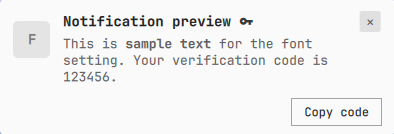
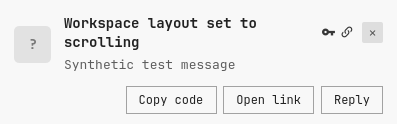
Wrap notification titles and measure action row overflow

diff --git a/Toast.qml b/Toast.qml
@@ -128,14 +128,51 @@ Item {
     return out
   }
 
-  // Three buttons is what fits across a card without the labels shrinking.
-  // Past that the last slot becomes "More", which opens the lot as a list
-  // rather than a floating menu: this surface is clipped, and a popup that can
-  // be cut off is worse than one more row.
-  readonly property int fits: 3
+  // Measure the actual themed buttons: a fixed count overflows with larger
+  // fonts or longer action labels. Reserve More before admitting each action.
+  readonly property var actionWidths: {
+    var widths = []
+    for (var i = 0; i < deedMeasures.count; i++) {
+      var button = deedMeasures.itemAt(i)
+      if (button) widths.push(button.implicitWidth)
+    }
+    return widths
+  }
+  readonly property int fits: {
+    var widths = actionWidths, gap = deedRow.spacing, available = deedArea.width
+    if (widths.length !== allDeeds.length) return 0
+    var total = 0
+    for (var i = 0; i < widths.length; i++) total += widths[i] + (i ? gap : 0)
+    if (total <= available) return widths.length
+    var used = moreMeasure.implicitWidth, count = 0
+    for (var j = 0; j < widths.length; j++) {
+      if (used + gap + widths[j] > available) break
+      used += gap + widths[j]
+      count++
+    }
+    return count
+  }
   readonly property bool overflows: allDeeds.length > fits
-  readonly property var deeds: allDeeds.slice(0, overflows ? fits - 1 : fits)
-  readonly property var spare: overflows ? allDeeds.slice(fits - 1) : []
+  readonly property var deeds: allDeeds.slice(0, fits)
+  readonly property var spare: allDeeds.slice(fits)
+
+  Item {
+    visible: false
+    Repeater {
+      id: deedMeasures
+      model: card.allDeeds
+      DeedButton {
+        required property var modelData
+        deed: modelData
+        toast: card
+      }
+    }
+    DeedButton {
+      id: moreMeasure
+      deed: ({ kind: "more", label: "More", value: "" })
+      toast: card
+    }
+  }
   property bool deedsOpen: false
   property bool menuOpen: false
   property string actionsAlign: "right"      // right | left
@@ -484,16 +521,19 @@ Item {
           Text {
             id: title
             anchors.left: parent.left
-            width: parent.width - rightSide.width
+            width: Math.max(1, parent.width - rightSide.width
                    - (badge.visible ? badge.width + Style.space(6) : 0)
                    - (titleMarks.visible ? titleMarks.width + Style.space(7) : 0)
-                   - Style.space(8)
+                   - Style.space(8))
             text: String(card.row.summary || "")
             color: Color.notifications.text
             font.family: Style.font.family
             font.pixelSize: Style.font.body * card.fontScale
             font.weight: Font.DemiBold
-            maximumLineCount: 1
+            // Larger fonts should wrap the summary, not hide it after a few words.
+            // Bound unusually long titles just as we bound the message body.
+            wrapMode: Text.Wrap
+            maximumLineCount: card.bodyOpen ? 8 : 3
             elide: Text.ElideRight
           }
 
@@ -739,7 +779,7 @@ Item {
                                        : card.menuOpen ? "menu"
                                        : card.deedsOpen ? "list"
                                        : (card.hovered && card.expanded
-                                          && card.deeds.length > 0) ? "row" : ""
+                                          && card.allDeeds.length > 0) ? "row" : ""
 
           readonly property real contentHeight: mode === "reply" ? replyBox.height
                                               : mode === "menu" ? menuColumn.implicitHeight

diff --git a/tests/FontLayout.qml b/tests/FontLayout.qml
@@ -1,0 +1,70 @@
+import QtQuick
+import Quickshell
+import "Plugin" as Plugin
+
+Window {
+  id: test
+  visible: true
+  width: 500
+  height: 900
+  color: "#eeeeee"
+  Plugin.Toast {
+    id: toast
+    x: 20; y: 20
+    cardWidth: 340
+    row: ({summary: "Workspace layout set to scrolling", body: "Synthetic test message", codes: "123456", code: "123456", link: "https://example.com", replyPath: "fake:0"})
+    place: ({front: true, count: 1, z: 1})
+    expanded: true
+    hovered: true
+    paused: true
+  }
+  property int step: 0
+  property var sizes: [0.75, 1, 1.25, 1.5, 2]
+  function walk(item, out) {
+    if (!item) return
+    out.push(item)
+    if (item.children) for (var i=0; i<item.children.length; i++) walk(item.children[i], out)
+  }
+  function check(ok, message) { if (!ok) throw new Error(message) }
+  Timer {
+    interval: 200; running: true; repeat: true
+    onTriggered: {
+      try {
+        if (test.step === 0) { toast.fontScale = test.sizes[0]; test.step++; return }
+        var nodes=[]; test.walk(toast,nodes)
+        var title=nodes.find(n => n.text === toast.row.summary)
+        test.check(title && !title.truncated && title.lineCount > 1, "Title should wrap without truncation at " + toast.fontScale)
+        var visibleButtons=nodes.filter(n => n.deed !== undefined && n.visible)
+        for (var b of visibleButtons) {
+          var p=b.mapToItem(toast,0,0)
+          test.check(p.x >= 0 && p.x+b.width <= toast.width+0.1, "Button outside card: " + b.text)
+          var labels=[]; test.walk(b,labels)
+          for (var label of labels.filter(n=>n.text === b.text && n !== b && n.visible)) {
+            var lp=label.mapToItem(b,0,0)
+            test.check(lp.x >= -0.1 && lp.x+label.width <= b.width+0.1, "Label outside button: " + b.text)
+          }
+        }
+        test.check(visibleButtons.length > 0, "No reachable actions")
+        if (toast.fontScale === 2 && !toast.deedsOpen) test.check(toast.overflows, "200% needs More")
+        if (test.step <= test.sizes.length) {
+          console.log("PASS row",toast.fontScale,"fits",toast.fits,"buttons",visibleButtons.map(b=>b.text).join(","))
+          if (test.step < test.sizes.length) toast.fontScale=test.sizes[test.step]
+          else toast.doDeed({kind:"more"})
+        } else if (test.step === test.sizes.length+1) {
+          test.check(visibleButtons.length === 3 && visibleButtons.every(b=>b.wide),"More must expose all three actions")
+          console.log("PASS More list at 200%")
+          toast.deedsOpen=false; toast.actionsAlign="left"
+        } else if (test.step === test.sizes.length+2) {
+          console.log("PASS left aligned row at 200%")
+          toast.row={summary:"Workspace layout set to scrolling",body:"Sample",codes:"",link:"",replyPath:""}
+          toast.actions=[{id:"long",text:"A much longer action label"}]
+        } else if (test.step === test.sizes.length+3) {
+          test.check(toast.fits===0 && visibleButtons.length===1 && visibleButtons[0].text==="More", "Oversize first action needs More")
+          console.log("PASS More-only row")
+          Qt.quit()
+        }
+        test.step++
+      } catch(e) { console.error("FAIL",e); Qt.exit(1) }
+    }
+  }
+}

diff --git a/docs/DEVELOPING.md b/docs/DEVELOPING.md
@@ -205,3 +205,11 @@ which loses `--sensitive` and nothing else — Omarchy's clipboard history is
 and copied nothing is the outcome to rule out. KDE Connect is different: it is
 the bridge that puts phone notifications on the bus at all, so without it that
 half of the feature set has no input, not a degraded one.
+
+## Font layout regression check
+
+Run `tests/font-layout.sh` on an Omarchy installation. It renders the actual
+Toast and DeedButton components offscreen, without starting a notification
+daemon, and checks title wrapping, action bounds, More expansion and left/right
+alignment across 75–200%. Set `OMARCHY_SHELL_DIR` if the shell is installed
+somewhere other than `/usr/share/omarchy/shell`.

diff --git a/README.md b/README.md
@@ -149,6 +149,12 @@ Notification text at 100% and 150% of the theme size:
 | --- | --- |
 | ![Sample notification at 100%](assets/font-scale-100.png) | ![Sample notification at 150%](assets/font-scale-150.png) |
 
+Long titles wrap, and actions that do not fit move behind **More**. At 200%:
+
+| Action row | More expanded |
+| --- | --- |
+| ![Actions at 200%](assets/font-scale-200.png) | ![All actions at 200%](assets/font-scale-200-more.png) |
+
 Every history entry is the text of a message somebody sent you, so it is
 trimmed by age as well as count: **7 days or 200 entries**, whichever comes
 first. Resolved icons are dropped after 60 days unused, and nothing is ever
